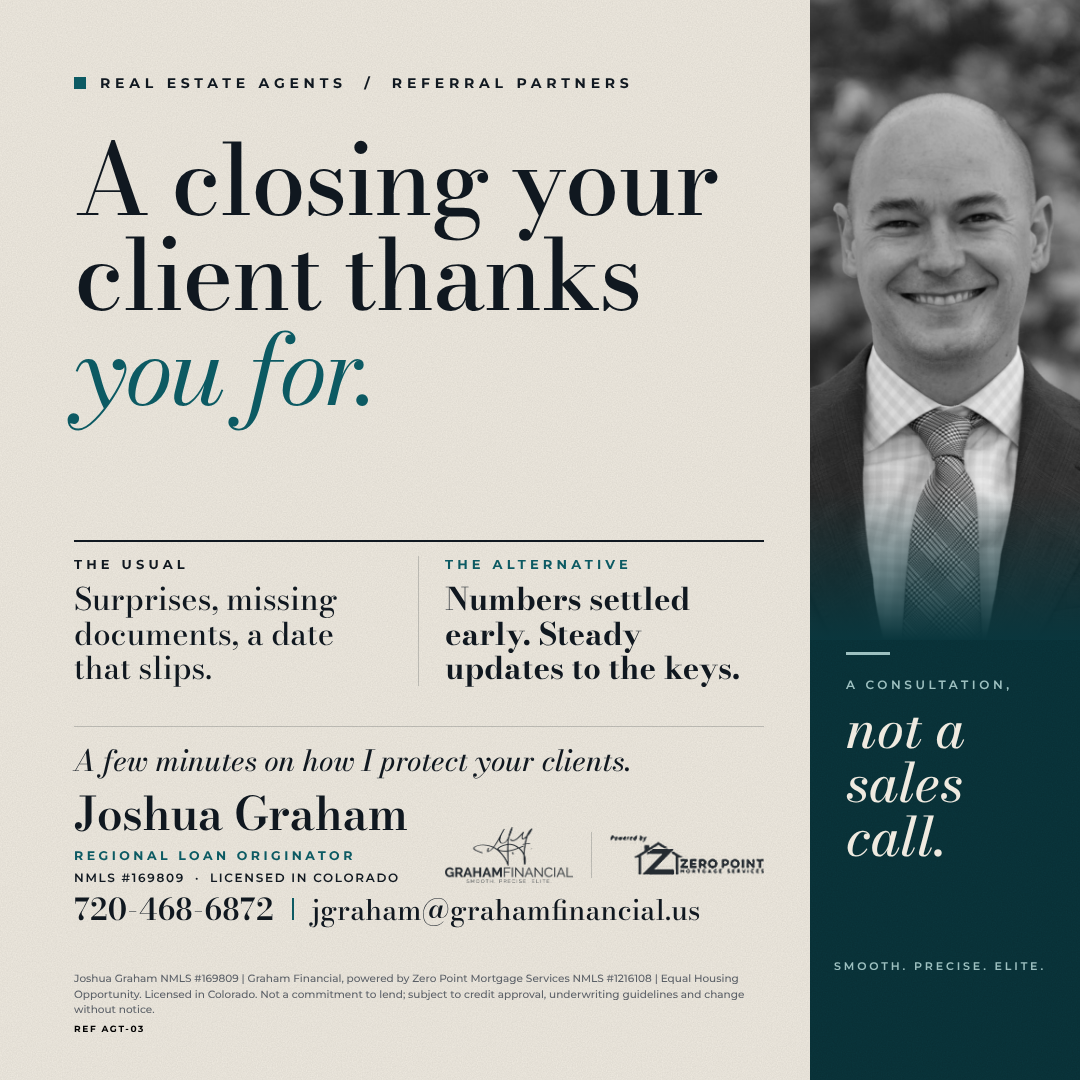
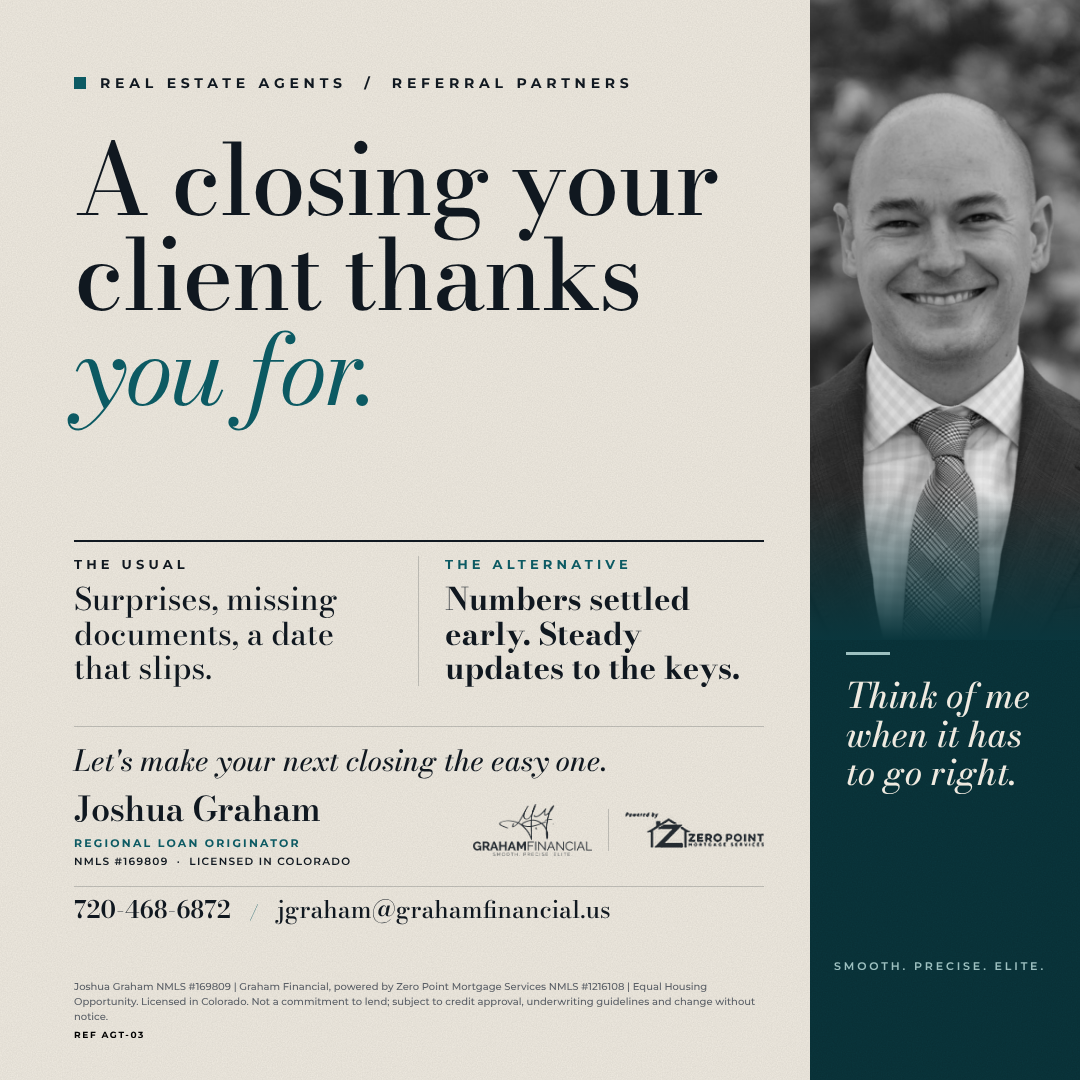
Flyers: new bottom block hierarchy, panel line 'Think of me when it has to go right'; copy drops consultation framing
Claude-Session: https://claude.ai/code/session_01BCcskEaN45pwtrM4t2VKHx

Changed region(s): [[0.0611, 0.6722, 0.7028, 0.8556], [0.0611, 0.8861, 0.7028, 0.9778], [0.7639, 0.6111, 0.9472, 0.7944]]

diff --git a/src/smart-money/data.js b/src/smart-money/data.js
@@ -913,9 +913,9 @@ Let me help you add some deals. Find out my strategies for free, then join the c
     },
   },
   {
-    ref: "BUY-01", bank: "consumer", name: "Move-In Cost: Two Months and a Deposit (renters)", lender: "N/A — consultation; route to DPA / seller-credit scenarios",
+    ref: "BUY-01", bank: "consumer", name: "Move-In Cost: Two Months and a Deposit (renters)", lender: "N/A — call; route to DPA / seller-credit scenarios",
     audience: "consumer", license: "required", flyer: "/smart-money/flyers/BUY-01.png", footer: "consumer",
-    cta: `A few minutes with me. A consultation, not a sales call. It's free to find out 👉 ${BRAND.booking}`,
+    cta: `Think of me when you want your move to go amazingly well. Book time with me 👉 ${BRAND.booking}`,
     painPoints: ["renting", "priced-out"], magnet: "book-5", skool: "Homebuyers",
     highlights: ["Renting: two months plus a deposit at move-in", "Buying: often far less up front with help and seller credits", "First mortgage payment is usually 30 to 45 days out"],
     notes: "Elite look. No payment amounts, rates or down-payment % in public copy (Reg Z). Keep 'often' / 'can' hedges. Verify the 2-months-plus-deposit framing matches what Colorado renters are quoted. Compliance (ZPM) to review before heavy use.",
@@ -925,23 +925,23 @@ Buying can look very different. With the right help and seller credits, the move
 
 Most renters never find out what their real number would be.
 
-A few minutes with me and you'll know. It's a consultation, not a sales call.`,
+Think of me when you want your move to go amazingly well.`,
     long: `Here's what moving in costs a renter: two months of rent plus a deposit, up front. For a lot of Colorado renters, that's a big check for a place that builds someone else's equity.
 
 Buying can be a different picture. Depending on your situation, down payment assistance and seller credits can cut what you bring to the table to very little, and your first mortgage payment typically isn't due for 30 to 45 days.
 
-It won't fit everyone, which is why I'd rather show you your real number than guess. Take a few minutes with me. It's a consultation, not a sales call, and you'll walk away knowing where you stand.`,
+It won't fit everyone, which is why I'd rather show you your real number than guess. Think of me when you want your move to go amazingly well. You'll know where you stand.`,
     video: {
       title: "Compare your real move-in number",
       hook: "Two months of rent plus a deposit. That's what moving in costs a renter.",
       points: ["What a rental move-in actually costs", "How help and seller credits can shrink the buyer's number", "Why the first payment lands 30 to 45 days out"],
-      cta: "Take a few minutes with me to see your real number. A consultation, not a sales call. Link in the post.",
+      cta: "Want your real number? Think of me when you want your move to go amazingly well. Link in the post.",
     },
   },
   {
-    ref: "BUY-02", bank: "consumer", name: "Rent Builds Their Equity (renters)", lender: "N/A — consultation; route to DPA / seller-credit scenarios",
+    ref: "BUY-02", bank: "consumer", name: "Rent Builds Their Equity (renters)", lender: "N/A — call; route to DPA / seller-credit scenarios",
     audience: "consumer", license: "required", flyer: "/smart-money/flyers/BUY-02.png", footer: "consumer",
-    cta: `A few minutes with me. A consultation, not a sales call. It's free to find out 👉 ${BRAND.booking}`,
+    cta: `Think of me when you want your move to go amazingly well. Book time with me 👉 ${BRAND.booking}`,
     painPoints: ["renting", "priced-out"], magnet: "book-5", skool: "Homebuyers",
     highlights: ["Rent payments build the landlord's equity", "Buying often needs far less up front than a rental move-in", "First payment 30 to 45 days out"],
     notes: "Elite look. Same Reg Z cautions as BUY-01. Pair with BUY-01 on alternating days, not back to back.",
@@ -951,69 +951,69 @@ And you pay two months plus a deposit just to get in the door.
 
 Buying often takes far less up front, and the first payment is usually 30 to 45 days away.
 
-A few minutes with me, no pressure. It's a consultation, not a sales call.`,
+Think of me when you want your move to go amazingly well.`,
     long: `Renting asks for two months plus a deposit up front, then a payment every month that builds your landlord's equity instead of yours.
 
-Buying can ask for a lot less up front, and the first payment typically comes 30 to 45 days after closing. What it looks like for you depends on your situation, and that's what a few minutes with me is for.
+Buying can ask for a lot less up front, and the first payment typically comes 30 to 45 days after closing. What it looks like for you depends on your situation, and that's where I come in.
 
-It's a consultation, not a sales call. You'll know where you stand either way.`,
+Think of me when you want your move to go amazingly well. You'll know where you stand either way.`,
     video: {
       title: "Whose equity are you building?",
       hook: "Your rent payment is building someone's equity. Just not yours.",
-      points: ["Why renting asks for so much up front", "How buying can ask for far less", "What a few minutes with me covers"],
-      cta: "Book a few minutes with me. A consultation, not a sales call. Link in the post.",
+      points: ["Why renting asks for so much up front", "How buying can ask for far less", "How I help"],
+      cta: "Think of me when you want your move to go amazingly well. Link in the post.",
     },
   },
   {
     ref: "AGT-02", bank: "agents", name: "Agents: Clients Who Close Without the Drama", lender: "N/A",
     audience: "agent", license: "none", flyer: "/smart-money/flyers/AGT-02.png", footer: "intro",
-    cta: `A few minutes with me on protecting your clients. A consultation, not a sales call 👉 ${BRAND.booking}`,
+    cta: `Think of me when you want your closings to go amazingly well. Book time with me 👉 ${BRAND.booking}`,
     painPoints: [], magnet: "book-5", skool: "Agents",
-    highlights: ["Late surprises and a buyer who goes quiet", "Clear numbers, steady updates, a calm closing", "Consultation, not a sales call"],
+    highlights: ["Late surprises and a buyer who goes quiet", "Clear numbers, steady updates, a calm closing"],
     notes: "Elite look, peacock palette. Agent footer is the intro footer; ask ZPM whether RESPA language is wanted for agent-facing ads. Goal: agents refer because clients reach the table smoothly.",
     short: `Agents: the deals that slip usually slip late. A surprise in the numbers, a missing document, a buyer who goes quiet.
 
 I work to settle the numbers early and keep everyone updated, so your clients close calmly and thank you for it.
 
-A few minutes with me. A consultation, not a sales call.`,
+Think of me when you want your closings to go amazingly well.`,
     long: `Most deals don't fall apart at the offer. They fall apart late, on a surprise, a missing document or a buyer who stops answering.
 
 My job is to take that off your plate: numbers settled early, steady updates to you and your client, and a calm closing. The kind of closing your client remembers when they refer their friends to you.
 
-If you want to see how I'd protect your clients, take a few minutes with me. It's a consultation, not a sales call.`,
+If you want to see how I'd protect your clients, think of me when you want your closings to go amazingly well.`,
     video: {
       title: "Why deals slip, and how I keep your clients calm",
       hook: "Your deal won't die at the offer. It dies at the surprise.",
-      points: ["Where deals really slip: late numbers and silence", "What settling it early looks like", "What the consultation covers"],
-      cta: "Take a few minutes with me. A consultation, not a sales call. Link in the post.",
+      points: ["Where deals really slip: late numbers and silence", "What settling it early looks like", "How we work together"],
+      cta: "Think of me when you want your closings to go amazingly well. Link in the post.",
     },
   },
   {
     ref: "AGT-03", bank: "agents", name: "Agents: A Closing Your Client Thanks You For (photo)", lender: "N/A",
     audience: "agent", license: "none", flyer: "/smart-money/flyers/AGT-03.png", footer: "intro",
-    cta: `A few minutes with me on protecting your clients. A consultation, not a sales call 👉 ${BRAND.booking}`,
+    cta: `Think of me when you want your closings to go amazingly well. Book time with me 👉 ${BRAND.booking}`,
     painPoints: [], magnet: "book-5", skool: "Agents",
-    highlights: ["Surprises, missing documents, a slipping date vs. numbers settled early", "Steady updates to the keys", "Consultation, not a sales call"],
+    highlights: ["Surprises, missing documents, a slipping date vs. numbers settled early", "Steady updates to the keys"],
     notes: "Photo variant: roughly 1 in 4 flyers carries Joshua's photo (grayscale panel).",
     short: `A closing your client thanks you for.
 
 That's the goal. Numbers settled early, steady updates, and no surprises on the way to the keys.
 
-A few minutes with me and you'll see how I protect your clients. A consultation, not a sales call.`,
+Think of me when you want your closings to go amazingly well.`,
     long: `The usual closing: surprises, missing documents, a date that slips. The alternative: numbers settled early and steady updates all the way to the keys.
 
-I'm Joshua Graham, and I'd like to show you how I protect your clients so they close calmly and send their friends your way. A few minutes, a consultation, not a sales call.`,
+I'm Joshua Graham, and I'd like to show you how I protect your clients so they close calmly and send their friends your way. Think of me when you want your closings to go amazingly well.`,
     video: {
       title: "A closing your client thanks you for",
       hook: "What if your client thanked you for the closing?",
-      points: ["The usual closing vs. the calm one", "How early numbers and steady updates change it", "What a few minutes with me covers"],
-      cta: "Take a few minutes with me. A consultation, not a sales call. Link in the post.",
+      points: ["The usual closing vs. the calm one", "How early numbers and steady updates change it", "How I help"],
+      cta: "Think of me when you want your closings to go amazingly well. Link in the post.",
     },
   },
   {
-    ref: "BUY-03", bank: "consumer", name: "Rent Is a Bill. A Mortgage Is a Plan. (renters)", lender: "N/A — consultation; route to DPA / seller-credit scenarios",
+    ref: "BUY-03", bank: "consumer", name: "Rent Is a Bill. A Mortgage Is a Plan. (renters)", lender: "N/A — call; route to DPA / seller-credit scenarios",
     audience: "consumer", license: "required", flyer: "/smart-money/flyers/BUY-03.png", footer: "consumer",
-    cta: `A few minutes with me. A consultation, not a sales call. It's free to find out 👉 ${BRAND.booking}`,
+    cta: `Think of me when you want your move to go amazingly well. Book time with me 👉 ${BRAND.booking}`,
     painPoints: ["renting", "priced-out"], magnet: "book-5", skool: "Homebuyers",
     highlights: ["A lease pays for a place you never own", "A mortgage payment builds your equity", "First payment 30 to 45 days out"],
     notes: "Elite look, panel on the left. No payment amounts, rates or down-payment % (Reg Z). ZPM compliance cleared the renter framing Nov 16.",
@@ -1021,17 +1021,17 @@ I'm Joshua Graham, and I'd like to show you how I protect your clients so they c
 
 One pays for a place you'll never own. The other builds equity for you, and your first payment is typically 30 to 45 days out.
 
-A few minutes with me and you'll see what your move would really take. A consultation, not a sales call.`,
+Think of me when you want your move to go amazingly well.`,
     long: `A lease is a bill: you pay for a place you'll never own. A mortgage is a plan, because the payment builds your equity.
 
 Depending on your situation, down payment assistance and seller credits can make the move-in far less than most renters expect, and the first payment typically comes 30 to 45 days after closing.
 
-I'd rather show you your real numbers than guess. A few minutes with me. A consultation, not a sales call.`,
+I'd rather show you your real numbers than guess. Think of me when you want your closings to go amazingly well.`,
     video: {
       title: "Rent is a bill. A mortgage is a plan.",
       hook: "Rent is a bill. A mortgage is a plan.",
-      points: ["What a lease actually buys you", "How a mortgage payment builds your equity", "What a few minutes with me covers"],
-      cta: "Take a few minutes with me. A consultation, not a sales call. Link in the post.",
+      points: ["What a lease actually buys you", "How a mortgage payment builds your equity", "How I help"],
+      cta: "Think of me when you want your closings to go amazingly well. Link in the post.",
     },
   },
 ];

diff --git a/src/smart-money/contentKit.js b/src/smart-money/contentKit.js
@@ -77,15 +77,15 @@ export const KIT = [
         "Your buyer gets approved for $450K, so they're shopping $450K houses. They lose the one they loved by $20K, and nobody questions the approval.",
         "Approval amount comes down to rate and payment. Most retail lenders are pricing with retail margins built in.",
         ["I'm a wholesale broker, so I shop dozens of lenders at wholesale pricing.", "A lower rate means more house on the same payment. For example, on a $3,000 payment a half-point lower rate is about $20-25K more purchase price.", "Same buyer and same income, just a bigger budget."],
-        "Take a few minutes with me. It's a consultation, not a sales call. Bring one buyer you're working with and I'll run a second opinion on the approval, so your client isn't the one who finds out at the table."),
-      caption:`Hi [Name], 40-second video on why some of your buyers may be approved for less than they could be. Want a few minutes together? A consultation, not a sales call. ${BOOK}` },
+        "Think of me when you want your buyers' deals to go amazingly well. Bring one buyer you're working with and I'll run a second opinion on the approval, so your client isn't the one who finds out at the table."),
+      caption:`Hi [Name], 40-second video on why some of your buyers may be approved for less than they could be. Want to talk? ${BOOK}` },
     { id:"v-a-calm", kind:"Video", title:"A closing your client thanks you for", steps:["Recorded","Posted"],
       text: vid("What if your client thanked you for the closing?",
         "Most deals don't die at the offer. They die late: a surprise in the numbers, a missing document, a buyer who goes quiet. You take the heat for it.",
         "The fix is mostly in the first week, not the last.",
         ["Numbers settled early, so nothing changes at the table.", "Steady updates to you and your client, so nobody is guessing.", "A calm path to the keys, and a client who sends their friends to you."],
-        "Take a few minutes with me. It's a consultation, not a sales call. I'd like to show you how I protect your clients."),
-      caption:`A closing your client thanks you for. A few minutes with me, a consultation, not a sales call 👉 ${BOOK}` },
+        "Think of me when you want your closings to go amazingly well. I'd like to show you how I protect your clients."),
+      caption:`A closing your client thanks you for. Think of me when you want it to go amazingly well 👉 ${BOOK}` },
   ]},
   { id:"renters", title:"Renters: compare the real move-in", note:"Colorado consumers. No payment amounts, rates or down-payment percentages on screen or in captions (Reg Z). Keep the hedges: often, can, depends.", items:[
     { id:"v-r-movein", kind:"Video", title:"Compare the real move-in", steps:["Recorded","Posted"],
@@ -93,8 +93,8 @@ export const KIT = [
         "That's a big check at the door, and the payment after it builds your landlord's equity, not yours.",
         "Buying can ask for a lot less up front than most renters expect.",
         ["Down payment assistance and seller credits can cut what you bring to the table, in many cases to very little.", "Your first mortgage payment is typically 30 to 45 days after closing.", "It won't fit everyone, so see your real number instead of guessing."],
-        "Take a few minutes with me. It's a consultation, not a sales call. You'll know where you stand."),
-      caption:`Two months of rent plus a deposit, or often far less to buy? A few minutes with me. A consultation, not a sales call 👉 ${BOOK}` },
+        "Think of me when you want your move to go amazingly well. You'll know where you stand."),
+      caption:`Two months of rent plus a deposit, or often far less to buy? Think of me when you want your move to go amazingly well 👉 ${BOOK}` },
   ]},
   { id:"teams", title:"Team leaders: I train your team", note:"Send to team leads and brokers.", items:[
     { id:"v-t-train", kind:"Video", title:"Your team has a prospecting problem", steps:["Recorded","Sent to 5 team leads"],
@@ -102,8 +102,8 @@ export const KIT = [
         "New agents sit and wait for leads. Their database goes cold, and you're carrying the production.",
         "Prospecting works when it's a daily system, not a mood.",
         ["I come in and train your team on the system I use: daily call queues, past-client follow-up, birthday and anniversary touches, and the scripts.", "I bring the lending side too: approvals, pre-approval strategy and what makes offers win.", "No cost to your team."],
-        "Take a few minutes with me. A consultation, not a sales call. We'll map a training that keeps your agents producing and their clients closing smoothly."),
-      caption:`Hi [Name], I train agent teams on daily prospecting systems, plus the lending side that helps them win offers. Open to a few minutes together? A consultation, not a sales call. ${BOOK}` },
+        "Think of me when you want your team to go amazingly well. We'll map a training that keeps your agents producing and their clients closing smoothly."),
+      caption:`Hi [Name], I train agent teams on daily prospecting systems, plus the lending side that helps them win offers. Open to talking? ${BOOK}` },
   ]},
   { id:"course", title:"Agent Prospecting Course → webinar", note:"Live on Google Meet, Thursdays at 1 PM ET. [registration form link] is a placeholder until the Google Form is made (see Webinar setup).", items:[
     { id:"v-c-video", kind:"Video", title:"Most agents quit in week two", steps:["Recorded","Posted"],

diff --git a/dist/index.html b/dist/index.html
@@ -7,7 +7,7 @@
     <meta name="theme-color" content="#1e6e4a" />
     <link rel="manifest" href="/manifest.json" />
     <title>Get Unlocked Producer</title>
-    <script type="module" crossorigin src="/assets/main-4c66f7bd.js"></script>
+    <script type="module" crossorigin src="/assets/main-8e3c1c33.js"></script>
     <link rel="modulepreload" crossorigin href="/assets/supabase-f19bb01a.js">
   </head>
   <body>

diff --git a/tools/flyers/gen_elite.py b/tools/flyers/gen_elite.py
@@ -64,7 +64,7 @@ CARDS = {
         left=("THE USUAL", "Surprises, missing documents, a date that slips."),
         right=("THE ALTERNATIVE", "Numbers settled early. Steady updates to the keys."),
         ledger_px=31,
-        cta="A few minutes on how I protect your clients.", panel_bottom=TAGLINE, foot=FOOT_AGENT,
+        cta="Let's make your next closing the easy one.", panel_bottom=TAGLINE, foot=FOOT_AGENT,
         photo=dict(file="joshua-park-smile.jpg", h=640, size=800, x=-494, y=-84)),
     "BUY-03": dict(palette="scarlet", side="left", kicker="COLORADO RENTERS &nbsp;/&nbsp; BUYING A HOME",
         h1=["Rent is a bill.", "A mortgage is"], h1_accent="a plan.", h1_px=92,
@@ -104,13 +104,11 @@ def page(ref, c):
         panel_body = (f'<div style="position:absolute;right:0;top:0;width:270px;height:{ph["h"]}px;background-image:url(file://{img});background-size:auto {ph["size"]}px;background-position:{ph["x"]}px {ph["y"]}px;filter:grayscale(1) contrast(1.08) brightness(.96)"></div>'
                       f'<div style="position:absolute;right:0;top:{ph["h"]-150}px;width:270px;height:150px;background:linear-gradient(to bottom,rgba(0,0,0,0),{p["panel"]})"></div>'
                       f'<div style="position:absolute;right:0;top:{ph["h"]+12}px;width:270px;padding:0 34px 0 36px;box-sizing:border-box"><div style="width:44px;height:3px;background:{rule}"></div>'
-                      f'<p style="margin-top:22px;font:600 12px M;letter-spacing:.3em;color:{p["panel_mute"]}">A CONSULTATION,</p>'
-                      f'<p style="margin-top:10px;font:500 italic 54px/1.0 B;color:{p["panel_text"]}">not a<br>sales<br>call.</p></div>'
+                      f'<p style="margin-top:22px;font:500 italic 35px/1.1 B;color:{p["panel_text"]};white-space:nowrap">Think of me<br>when it has<br>to go right.</p></div>'
                       f'<p style="position:absolute;right:34px;bottom:104px;font:600 11px/1.6 M;letter-spacing:.26em;color:{p["panel_mute"]}">SMOOTH. PRECISE. ELITE.</p>')
     else:
         panel_body = (f'<div style="position:absolute;right:0;top:0;width:270px;padding:84px 34px 0 36px;box-sizing:border-box"><div style="width:44px;height:3px;background:{rule}"></div>'
-                      f'<p style="margin-top:26px;font:600 12px M;letter-spacing:.3em;color:{p["panel_mute"]}">A CONSULTATION,</p>'
-                      f'<p style="margin-top:12px;font:500 italic 64px/1.0 B;color:{p["panel_text"]}">not a<br>sales<br>call.</p></div>'
+                      f'<p style="margin-top:26px;font:500 italic 50px/1.06 B;color:{p["panel_text"]}">Think of<br>me when<br>it has to<br>go right.</p></div>'
                       f'<div style="position:absolute;right:0;bottom:104px;width:270px;padding:0 34px 0 36px;box-sizing:border-box">{bottom}</div>')
     gf = os.path.join(BRAND, "gf-logo-ink.png"); zp = os.path.join(BRAND, "zpm-logo-ink.png")
     html_out = f'''<!doctype html><html><head><meta charset="utf-8"><style>{ff}body{{margin:0}}p,h1{{margin:0}}*{{font-variant-numeric:lining-nums !important;font-feature-settings:"lnum" 1 !important}}</style></head><body>
@@ -126,13 +124,14 @@ def page(ref, c):
 <div style="padding-left:26px"><p style="font:700 13px M;letter-spacing:.32em;color:{p["accent"]}">{c["right"][0]}</p><p style="margin-top:10px;font:700 {lpx}px/1.12 B;color:{p["ink"]}">{c["right"][1]}</p></div></div>
 <div style="position:absolute;left:74px;width:690px;top:726px;border-top:1px solid {p["ink"]}33"></div>
 <p style="position:absolute;left:74px;top:738px;font:500 italic 29px B;color:{p["ink"]};white-space:nowrap">{c["cta"]}</p>
-<div style="position:absolute;left:74px;width:690px;top:790px;display:flex;align-items:flex-end;justify-content:space-between">
-<div><p style="font:600 46px/1 B;color:{p["ink"]};letter-spacing:-0.01em;white-space:nowrap">Joshua Graham</p>
-<p style="margin-top:12px;font:700 12.5px M;letter-spacing:.28em;color:{p["accent"]};white-space:nowrap">REGIONAL LOAN ORIGINATOR</p>
-<p style="margin-top:7px;font:600 12px M;letter-spacing:.14em;color:{p["ink"]};white-space:nowrap">NMLS #169809 &nbsp;&middot;&nbsp; LICENSED IN COLORADO</p></div>
-<div style="display:flex;align-items:center;gap:18px;padding-bottom:2px;flex:none"><img src="file://{gf}" style="height:56px;display:block;opacity:.9"><div style="width:1px;height:46px;background:{p["ink"]}33"></div><img src="file://{zp}" style="height:40px;display:block;opacity:.9"></div></div>
-<div style="position:absolute;left:74px;top:894px;display:flex;align-items:baseline;gap:18px;white-space:nowrap"><p style="font:600 30px/1 B;color:{p["ink"]};letter-spacing:.01em">720-468-6872</p><div style="width:2px;height:22px;background:{p["accent"]};align-self:center"></div><p style="font:500 28px/1 B;color:{p["ink"]}">jgraham@grahamfinancial.us</p></div>
-<p style="position:absolute;left:74px;width:690px;bottom:46px;font:500 10.5px/1.5 M;color:{p["muted"]}">{c["foot"]}<span style="display:block;margin-top:5px;font:700 9px M;letter-spacing:.18em;color:#000">REF {ref}</span></p>
+<div style="position:absolute;left:74px;width:690px;top:792px;display:flex;align-items:center;justify-content:space-between">
+<div><p style="font:600 34px/1 B;color:{p["ink"]};letter-spacing:-0.01em;white-space:nowrap">Joshua Graham</p>
+<p style="margin-top:10px;font:700 11px M;letter-spacing:.2em;color:{p["accent"]};white-space:nowrap">REGIONAL LOAN ORIGINATOR</p>
+<p style="margin-top:5px;font:600 10.5px M;letter-spacing:.12em;color:{p["ink"]};white-space:nowrap">NMLS #169809 &nbsp;&middot;&nbsp; LICENSED IN COLORADO</p></div>
+<div style="display:flex;align-items:center;gap:16px;flex:none"><img src="file://{gf}" style="height:52px;display:block;opacity:.9"><div style="width:1px;height:42px;background:{p["ink"]}33"></div><img src="file://{zp}" style="height:36px;display:block;opacity:.9"></div></div>
+<div style="position:absolute;left:74px;width:690px;top:886px;border-top:1px solid {p["ink"]}33"></div>
+<div style="position:absolute;left:74px;width:690px;top:898px;display:flex;align-items:baseline;gap:14px;white-space:nowrap"><p style="font:600 24px/1 B;color:{p["ink"]}">720-468-6872</p><span style="color:{p["accent"]};font:500 18px/1 B">&nbsp;/&nbsp;</span><p style="font:500 24px/1 B;color:{p["ink"]}">jgraham@grahamfinancial.us</p></div>
+<p style="position:absolute;left:74px;width:690px;bottom:40px;font:500 10px/1.5 M;color:{p["muted"]}">{c["foot"]}<span style="display:block;margin-top:5px;font:700 9px M;letter-spacing:.18em;color:#000">REF {ref}</span></p>
 </div></body></html>'''
     if c.get("side") == "left":
         html_out = html_out.replace("right:0;", "left:0;").replace("left:74px", "left:344px")
